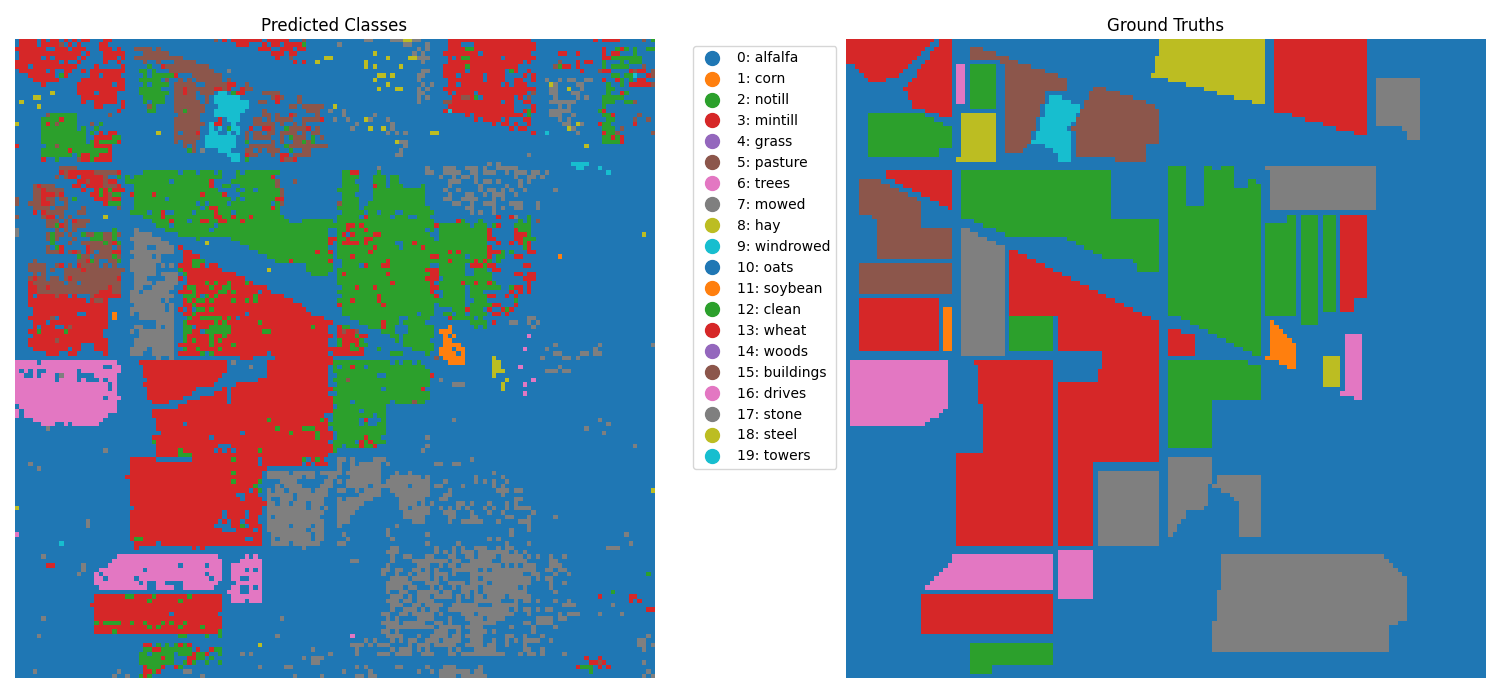
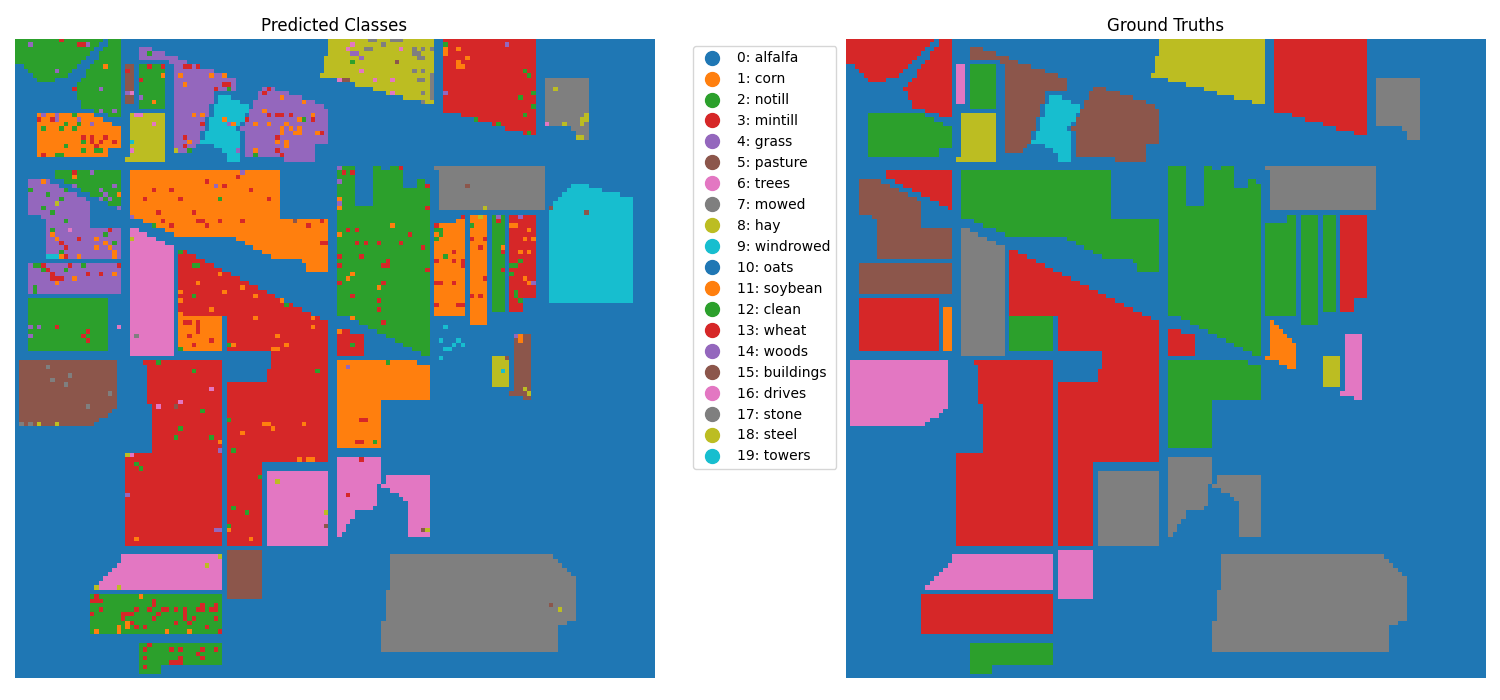
Add base classifier, refactor xg_boost

Changed region(s): [[0.0, 0.03, 0.4293, 0.99], [0.1533, 0.03, 0.46, 0.21], [0.184, 0.93, 0.2147, 0.96]]

diff --git a/website/ml_model/xg_boost_classes_prediction.py b/website/ml_model/xg_boost_classes_prediction.py
@@ -1,26 +1,22 @@
 import os
 
-import time
-
-from sklearn.metrics import confusion_matrix, classification_report, ConfusionMatrixDisplay
 import matplotlib
 import matplotlib.pyplot as plt
 import numpy as np
 from matplotlib.colors import ListedColormap
-from sklearn.decomposition import PCA
-from sklearn.metrics import accuracy_score
 from xgboost import XGBClassifier
 import seaborn as sns
 
-
+from Ground_Detection_App.website.ml_model.base_classifier import BaseClassifier
 from Ground_Detection_App.website.ml_model.load_data import LoadDataset
 
 matplotlib.use('TkAgg')
 
 
-class GeneratePredictionXGBoost:
+class GeneratePredictionXGBoost(BaseClassifier):
 
     def __init__(self, class_names):
+        super().__init__(class_names)
         self.data = None
         self.method = None
         self.wavelength = None
@@ -33,31 +29,14 @@ class GeneratePredictionXGBoost:
         self.wavelength, self.labels, self.data = ld.load_data(path)
 
     @staticmethod
-    def train_test_split(X, y, data_parts, n_iterations, i):
-        train_indices = np.concatenate([data_parts[j] for j in range(n_iterations) if j != i])
-        test_indices = data_parts[i]
-
-        X_train, X_test = X[train_indices], X[test_indices]
-        y_train, y_test = y[train_indices], y[test_indices]
-
-        return train_indices, test_indices, X_train, X_test, y_train, y_test
-
-    @staticmethod
-    def preprocess_data_for_image(X_train, X_test, n_components=100):
-        pca = PCA(n_components=n_components)
-        pca.fit(X_train)
-        pcX_train = pca.transform(X_train)
-        pcX_test = pca.transform(X_test)
-        return pcX_train, pcX_test, pca
-
-    @staticmethod
-    def train_xgboost(X_train, y_train, max_depth=5, n_estimators=100):
+    def train_xgboost(X_train, y_train, n_estimators=100, max_depth=5, min_child_weight=1, gamma=0.5, ):
         clf = XGBClassifier(n_estimators=n_estimators, max_depth=max_depth)
         clf.fit(X_train, y_train)
         return clf
 
     def plot_predictions_truth(self, cmap, y_pred_img, y_img, class_colors):
         plt.figure(figsize=(15, 7))
+
         plt.subplot(1, 2, 1)
         plt.imshow(y_pred_img, cmap=cmap)
         plt.title('Predicted Classes')
@@ -74,77 +53,43 @@ class GeneratePredictionXGBoost:
         plt.axis('off')
 
         plt.tight_layout()
-        # plt.show()
 
-    def plot_confusion_matrix(self, y_true, y_pred):
-        mask = y_true > 0
+    def compute_classification_results(self):
+        X_train, X_test, y_train, y_test, rows, cols, mask = self.preprocess_data(
+            pca_components=30,
+            scale=True,
+            test_size=0.3,
+            random_state=42
+        )
 
-        y_true_filtered = y_true[mask]
-        y_pred_filtered = y_pred[mask]
+        clf = self.train_xgboost(X_train, y_train)
 
-        cm = confusion_matrix(y_true_filtered, y_pred_filtered, labels=list(self.class_names.keys())[1:])
-        disp = ConfusionMatrixDisplay(cm, display_labels=list(self.class_names.values())[1:])
+        # y_pred = clf.predict(X_test)
 
-        plt.figure(figsize=(10, 8))
-        disp.plot(cmap=plt.cm.Blues, xticks_rotation=45)
-        plt.title("Confusion Matrix XGBoost")
-        plt.show()
+        y_pred_full = np.zeros(mask.shape, dtype=np.int32)
 
-        print("\nClassification Report:\n",
-              classification_report(y_true_filtered, y_pred_filtered, labels=list(self.class_names.keys())[1:],
-                                    target_names=list(self.class_names.values())[1:], zero_division=0))
+        X_full = self.data.reshape((-1, self.data.shape[-1])).astype(np.float32) / 65535.0
 
-    def compute_classification_results(self, n_iterations=5):
-        print('compute_classification_results is called')
+        if self.scaler:
+            X_full = self.scaler.transform(X_full)
+        if self.pca:
+            X_full = self.pca.transform(X_full)
 
-        data = self.data.astype(np.float64) / 65535.0
+        y_pred_full[mask] = clf.predict(X_full[mask])
 
-        rows, cols, bands = data.shape
-        y = self.labels.ravel()
+        y_full = self.labels.ravel()
 
-        # спектральний вектор
-        X = data.reshape((rows * cols, bands))
-        y_pred_full = np.zeros_like(y)
-
-        data_parts = np.array_split(np.random.permutation(len(X)), n_iterations)
-        accuracy_scores = []
-
-        for i in range(n_iterations):
-            print("iteration {}".format(i + 1))
-
-            train_indices, test_indices, X_train, X_test, y_train, y_test = self.train_test_split(X, y, data_parts,
-                                                                                                  n_iterations, i)
-
-            pcX_train, pcX_test, pca = self.preprocess_data_for_image(X_train, X_test)
-
-            start = time.time()
-
-            # XGBoost Classifier
-            clf = self.train_xgboost(pcX_train, y_train)
-
-            print("Час тренування:", time.time() - start)
-
-            y_pred = clf.predict(pcX_test).reshape(-1, 1)
-            y_pred_full[test_indices] = y_pred.ravel()
-
-            accuracy_scores.append(accuracy_score(y_test, y_pred))
-
-        print("Середня точність:", np.mean(accuracy_scores))
-
+        y_img = y_full.reshape((rows, cols))
         y_pred_img = y_pred_full.reshape((rows, cols))
-        y_img = y.reshape((rows, cols))
 
         cmap = ListedColormap(self.class_colors)
-
         self.plot_predictions_truth(cmap, y_pred_img, y_img, self.class_colors)
 
         current_dir = os.path.dirname(os.path.abspath(__file__))
         static_img_path = os.path.join(current_dir, '..', 'static', 'imgs')
         os.makedirs(static_img_path, exist_ok=True)
-
         full_img_path = os.path.join(static_img_path, 'classes_prediction_xg_boost.png')
         plt.savefig(full_img_path)
         plt.close()
-        return 'imgs/classes_prediction_xg_boost.png'
 
-        # self.plot_confusion_matrix(y.ravel(), y_pred_full)
+        return 'imgs/classes_prediction_xg_boost.png'

diff --git a/website/ml_model/random_forest_classes_prediction.py b/website/ml_model/random_forest_classes_prediction.py
@@ -10,7 +10,6 @@ from sklearn.ensemble import RandomForestClassifier
 from sklearn.metrics import confusion_matrix, classification_report, accuracy_score, precision_score, recall_score, \
     f1_score
 from matplotlib.colors import ListedColormap
-import kagglehub
 
 from Ground_Detection_App.website.ml_model.load_data import LoadDataset
 
@@ -79,26 +78,6 @@ class GeneratePredictionRandomForest:
 
         return clf, scaler, X_test_scaled, y_test
 
-    # def calculate_metrics(self, clf, X_test, y_test):
-    #     y_pred = clf.predict(X_test)
-    #
-    #     accuracy = accuracy_score(y_test, y_pred)
-    #     print(f"Загальна точність: {accuracy:.4f}")
-    #
-    #     cm = confusion_matrix(y_test, y_pred)
-    #     class_names = list(self.CLASS_NAMES.values())[1:]  # Remove "Background"
-    #
-    #     # Plot confusion matrix
-    #     plt.figure(figsize=(15, 7))
-    #     sns.heatmap(cm, annot=True, fmt='d', cmap='Blues', xticklabels=class_names, yticklabels=class_names)
-    #     plt.xlabel("Predicted Label")
-    #     plt.ylabel("True Label")
-    #     plt.title("Confusion Matrix Random Forest Classifier")
-    #     plt.xticks(rotation=45)
-    #     plt.show()
-    #
-    #     print("\nClassification Report:\n",
-    #           classification_report(y_test, y_pred, target_names=class_names, zero_division=0))
 
     def visualize_results(self, clf, scaler, X, rows, cols, mask, y_img):
         # Predict entire image
@@ -147,5 +126,31 @@ class GeneratePredictionRandomForest:
         y_img[mask.reshape((rows, cols))] = y
         return self.visualize_results(clf, scaler, X, rows, cols, mask, y_img)
 
-# if __name__ == "__main__":
-#     main()
+
+
+
+
+
+
+
+
+    # def calculate_metrics(self, clf, X_test, y_test):
+    #     y_pred = clf.predict(X_test)
+    #
+    #     accuracy = accuracy_score(y_test, y_pred)
+    #     print(f"Загальна точність: {accuracy:.4f}")
+    #
+    #     cm = confusion_matrix(y_test, y_pred)
+    #     class_names = list(self.CLASS_NAMES.values())[1:]  # Remove "Background"
+    #
+    #     # Plot confusion matrix
+    #     plt.figure(figsize=(15, 7))
+    #     sns.heatmap(cm, annot=True, fmt='d', cmap='Blues', xticklabels=class_names, yticklabels=class_names)
+    #     plt.xlabel("Predicted Label")
+    #     plt.ylabel("True Label")
+    #     plt.title("Confusion Matrix Random Forest Classifier")
+    #     plt.xticks(rotation=45)
+    #     plt.show()
+    #
+    #     print("\nClassification Report:\n",
+    #           classification_report(y_test, y_pred, target_names=class_names, zero_division=0))

diff --git a/website/ml_model/base_classifier.py b/website/ml_model/base_classifier.py
@@ -1,0 +1,64 @@
+import numpy as np
+import seaborn as sns
+from sklearn.decomposition import PCA
+from sklearn.model_selection import train_test_split
+from sklearn.preprocessing import StandardScaler
+from Ground_Detection_App.website.ml_model.load_data import LoadDataset
+
+
+class BaseClassifier:
+
+    def __init__(self, class_names):
+        self.data = None
+        self.method = None
+        self.wavelength = None
+        self.labels = None
+        self.class_names = class_names
+        self.scaler = None
+        self.pca = None
+        self.class_colors = sns.color_palette(None, len(class_names))
+
+    def load_data(self, path):
+        ld = LoadDataset(self.class_names)
+        self.wavelength, self.labels, self.data = ld.load_data(path)
+
+    def preprocess_data(self, pca_components=None, test_size=0.3, random_state=42, scale=True):
+        # Normalize to [0, 1]
+        # min-max normalization assuming a 16-bit range
+        data = self.data.astype(np.float32) / 65535.0  # division by 65535 is typical for 16-bit hyperspectral images,
+        # where pixel values range from 0 to 65535
+
+        # rows,cols - spatial dimensions
+        # bands - number of spectral features per pixel.
+        #  reshaping the data and reconstructing outputs
+        rows, cols, bands = data.shape
+        print("rows: ", rows, " cols: ", cols, " bands: ", bands)
+
+        # flatten the data
+        # The 3D image of shape (rows, cols, bands) is reshaped into a
+        # 2D matrix X of shape (num_pixels, bands)
+        X = data.reshape(rows * cols, bands)
+
+        # .ravel() flattens 2D data (rows, cols) into a 1D array of shape (rows * cols,)
+        y = self.labels.ravel()
+
+        # Filter out unlabeled pixels. Remove background (unlabeled) pixels
+        mask = y > 0
+
+        X = X[mask]
+        y = y[mask]
+
+        y = y - 1
+
+        if scale:
+            self.scaler = StandardScaler()
+            X = self.scaler.fit_transform(X)
+
+        if pca_components is not None:
+            self.pca = PCA(n_components=pca_components)
+            X = self.pca.fit_transform(X)
+
+        X_train, X_test, y_train, y_test = train_test_split(X, y, test_size=test_size, random_state=random_state, stratify=y)
+
+        return X_train, X_test, y_train, y_test, rows, cols, mask
+
